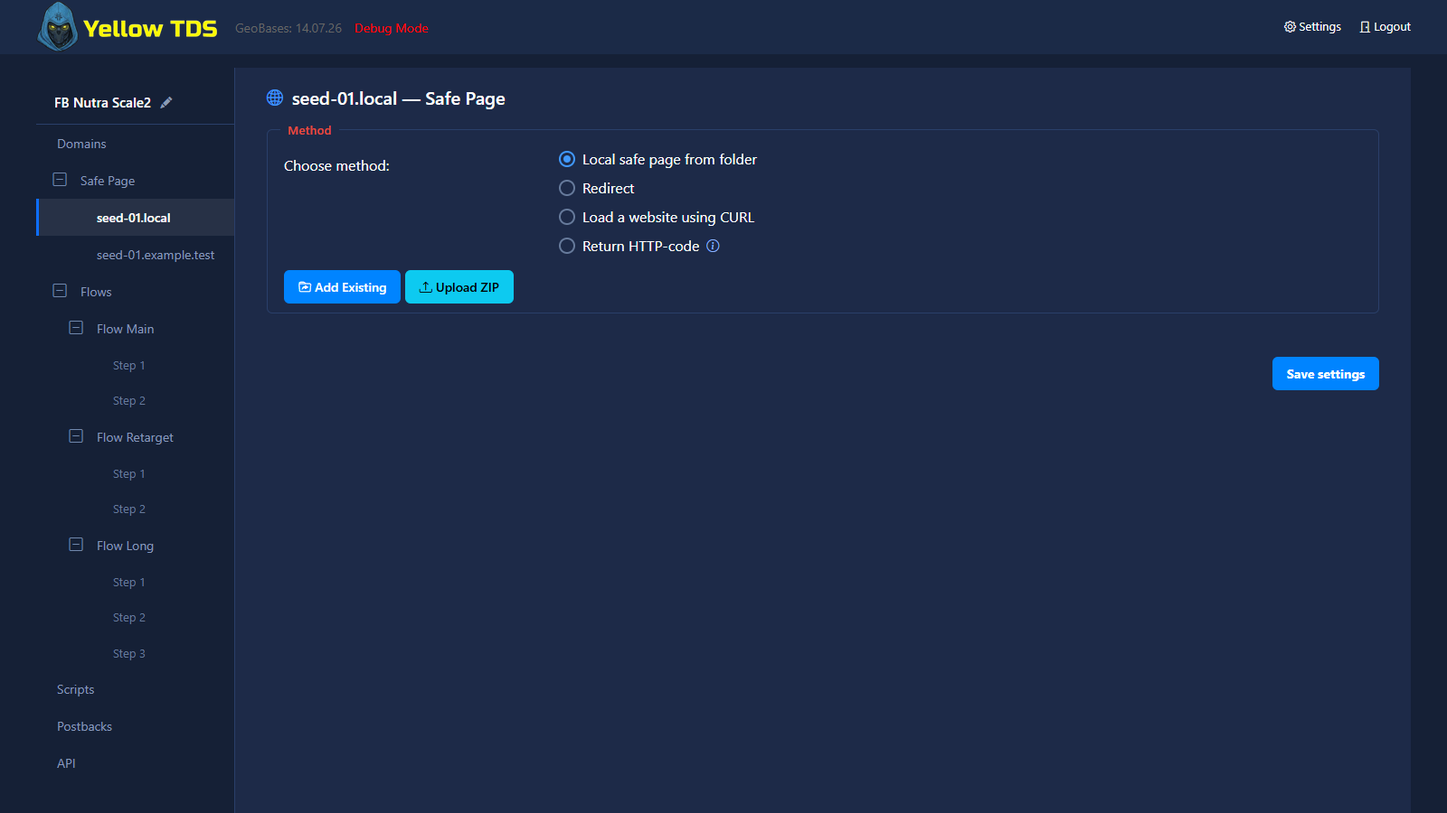
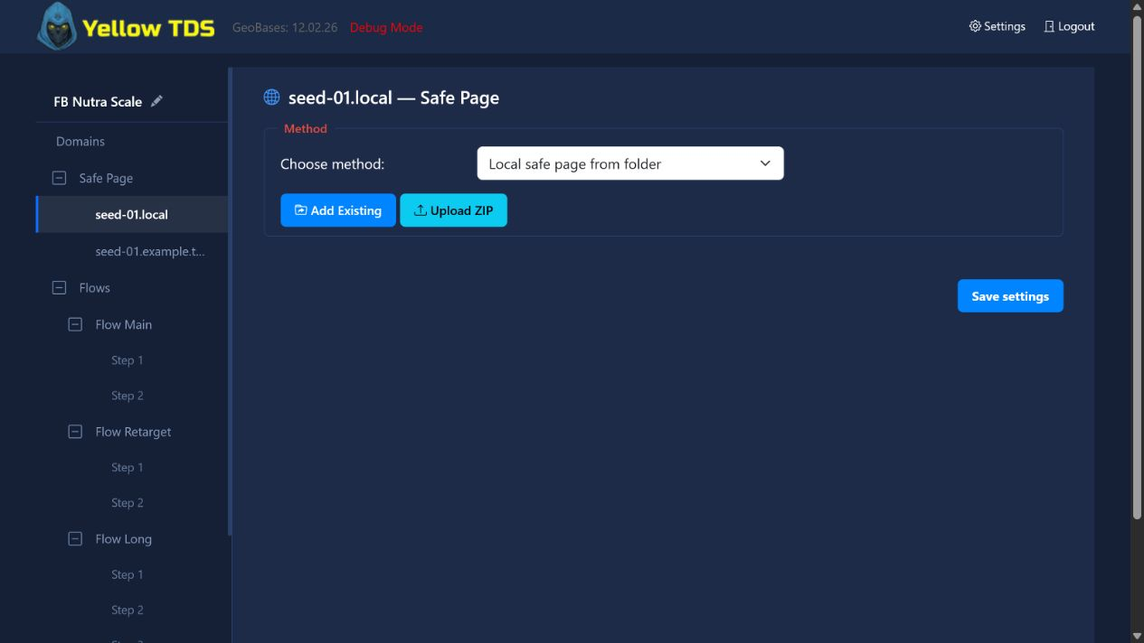
Update Safe Page method controls

diff --git a/admin/js/campsettings/domain-specific.js b/admin/js/campsettings/domain-specific.js
@@ -9,13 +9,13 @@ document.querySelectorAll('.white-scope-radio').forEach(function (radio) {
     });
 });
 
-// ── Domain-specific: method radio toggle ──
+// ── Domain-specific: method dropdown toggle ──
 document.addEventListener('change', function (e) {
-    var radio = e.target.closest('.dws-action');
-    if (!radio) return;
-    var section = radio.closest('.dws-section');
+    var actionSelect = e.target.closest('.dws-action');
+    if (!actionSelect) return;
+    var section = actionSelect.closest('.dws-section');
     if (!section) return;
-    var action = radio.value;
+    var action = actionSelect.value;
     section.querySelector('.dws-folder-block').style.display = action === 'folder' ? 'block' : 'none';
     section.querySelector('.dws-redirect-block').style.display = action === 'redirect' ? 'block' : 'none';
     section.querySelector('.dws-curl-block').style.display = action === 'curl' ? 'block' : 'none';
@@ -52,7 +52,7 @@ document.addEventListener('click', function (e) {
         fetch('listfolders.php?type=white').then(function (r) { return r.json(); }).then(function (data) {
             btn.disabled = false;
             if (data.error) { alert(data.result); return; }
-            if (!data.folders.length) { alert('No white page folders found. Upload a ZIP first.'); return; }
+            if (!data.folders.length) { alert('No safe page folders found. Upload a ZIP first.'); return; }
             if (window.openFolderPicker) {
                 window.openFolderPicker(data.folders).then(function (choices) {
                     if (!choices || !choices.length) return;
@@ -73,7 +73,7 @@ document.addEventListener('click', function (e) {
         document.body.appendChild(fileInput);
         fileInput.addEventListener('change', function () {
             if (!fileInput.files.length) { fileInput.remove(); return; }
-            var folderName = prompt('Enter folder name for this white page:', fileInput.files[0].name.replace(/\.zip$/i, ''));
+            var folderName = prompt('Enter folder name for this safe page:', fileInput.files[0].name.replace(/\.zip$/i, ''));
             if (!folderName || !folderName.trim()) { fileInput.remove(); return; }
             var fd = new FormData();
             fd.append('zipfile', fileInput.files[0]);
@@ -135,7 +135,7 @@ document.addEventListener('click', function (e) {
         var section = btn.closest('.dws-section');
         section.querySelector('.dws-error-items').insertAdjacentHTML('beforeend',
             '<div class="form-group-inner dws-error-item"><div class="row">' +
-            '<div class="col-lg-3"><label class="login2 pull-left pull-left-pro">HTTP code:</label></div>' +
+            '<div class="col-lg-3"><label class="login2 pull-left pull-left-pro">HTTP code: <i class="bi bi-info-circle admin-info-icon setting-help-icon" tabindex="0" role="img" aria-label="Examples: 404 Not Found or 200 OK." data-tooltip="Examples: 404 Not Found or 200 OK."></i></label></div>' +
             '<div class="col-lg-3"><input type="text" class="form-control dws-error-code" value="' + escapeHtml(code.trim()) + '" placeholder="404" /></div>' +
             '<div class="col-lg-1"><a href="javascript:void(0)" class="btn btn-danger campaign-icon-btn dws-remove-error" title="Delete"><i class="bi bi-trash"></i></a></div>' +
             '</div></div>');
@@ -171,8 +171,8 @@ window.collectDomainSpecificData = function () {
     var result = [];
     document.querySelectorAll('section.dws-section').forEach(function (section) {
         var domain = section.dataset.domain;
-        var action = 'folder';
-        section.querySelectorAll('.dws-action').forEach(function (r) { if (r.checked) action = r.value; });
+        var actionSelect = section.querySelector('.dws-action');
+        var action = actionSelect ? actionSelect.value : 'folder';
 
         var folders = [];
         var loadmode = {};

diff --git a/admin/js/campsettings/white-pages.js b/admin/js/campsettings/white-pages.js
@@ -1,11 +1,32 @@
 // ── White folder management ──
+var whiteActionSelect = document.querySelector('.white-action-select');
+
+function updateWhiteActionBlocks(action) {
+    var blocks = {
+        folder: document.getElementById('b_2'),
+        redirect: document.getElementById('b_3'),
+        curl: document.getElementById('b_4'),
+        error: document.getElementById('b_5')
+    };
+    Object.keys(blocks).forEach(function (key) {
+        if (blocks[key]) blocks[key].style.display = key === action ? 'block' : 'none';
+    });
+}
+
+if (whiteActionSelect) {
+    whiteActionSelect.addEventListener('change', function () {
+        updateWhiteActionBlocks(this.value);
+    });
+    updateWhiteActionBlocks(whiteActionSelect.value);
+}
+
 function buildWhiteFolderRow(folderName, mode) {
     mode = mode || 'base';
     var info = window.LOAD_MODE_INFO || {};
     var icon = (info[mode] || {}).icon || 'bi-house-door';
     return '<div class="form-group-inner white-folder-item"><div class="row">' +
         '<div class="col-lg-3"><label class="login2 pull-left pull-left-pro">Safe page folder:</label></div>' +
-        '<div class="col-lg-3"><input type="text" class="form-control folder-value-input white-folder-name" value="' + folderName + '" placeholder="white1" readonly tabindex="-1" /></div>' +
+        '<div class="col-lg-3"><input type="text" class="form-control folder-value-input white-folder-name" value="' + folderName + '" placeholder="safe1" readonly tabindex="-1" /></div>' +
         '<div class="col-lg-4"><div class="btn-group campaign-icon-group">' +
         '<a href="javascript:void(0)" class="btn btn-outline-secondary load-mode-btn" data-mode="' + mode + '" data-modes="base,rewrite,direct" title="Loading mode"><i class="bi ' + icon + '"></i></a>' +
         '<a href="javascript:void(0)" class="btn btn-warning white-edit-folder" title="Edit files"><i class="bi bi-pencil-square"></i></a>' +
@@ -38,7 +59,7 @@ document.querySelector('.white-add-existing')?.addEventListener('click', functio
     fetch('listfolders.php?type=white').then(function (r) { return r.json(); }).then(function (data) {
         btn.disabled = false;
         if (data.error) { alert(data.result); return; }
-        if (!data.folders.length) { alert('No white page folders found. Upload a ZIP first.'); return; }
+        if (!data.folders.length) { alert('No safe page folders found. Upload a ZIP first.'); return; }
         if (window.openFolderPicker) {
             window.openFolderPicker(data.folders).then(function (choices) {
                 if (!choices || !choices.length) return;
@@ -62,7 +83,7 @@ document.querySelector('.white-upload-zip')?.addEventListener('click', function 
     fileInput.addEventListener('change', function () {
         if (!fileInput.files.length) { fileInput.remove(); return; }
         var file = fileInput.files[0];
-        var folderName = prompt('Enter folder name for the new white page:');
+        var folderName = prompt('Enter folder name for the new safe page:');
         if (!folderName || !folderName.trim()) { fileInput.remove(); return; }
         folderName = folderName.trim();
         if (!/^[a-zA-Z0-9_\-\.]+$/.test(folderName)) {

diff --git a/admin/js/campsettings/dws-sync.js b/admin/js/campsettings/dws-sync.js
@@ -72,13 +72,14 @@ function buildDwsSection(domain) {
         '<h5 class="dws-page-title"><i class="bi bi-globe2" aria-hidden="true"></i>' + safeDomain + ' — Safe Page</h5>' +
         '<div class="flow-group dws-method-group"><span class="flow-group-title">Method</span>' +
         '<div class="form-group-inner"><div class="row">' +
-        '<div class="col-lg-3 col-md-6 col-sm-6 col-xs-12"><label class="login2 pull-left pull-left-pro">Choose method:</label></div>' +
-        '<div class="col-lg-9 col-md-6 col-sm-6 col-xs-12"><div class="ywb-radios">' +
-        '<label class="ywb-radio-label"><input type="radio" checked value="folder" name="' + actName + '" class="dws-action" /> Local safe page from folder</label>' +
-        '<label class="ywb-radio-label"><input type="radio" value="redirect" name="' + actName + '" class="dws-action" /> Redirect</label>' +
-        '<label class="ywb-radio-label"><input type="radio" value="curl" name="' + actName + '" class="dws-action" /> Load a website using CURL</label>' +
-        '<label class="ywb-radio-label"><input type="radio" value="error" name="' + actName + '" class="dws-action" /> Return HTTP-code <i class="bi bi-info-circle admin-info-icon setting-help-icon" tabindex="0" role="img" aria-label="Examples: 404 Not Found or 200 OK." data-tooltip="Examples: 404 Not Found or 200 OK."></i></label>' +
-        '</div></div></div></div>' +
+        '<div class="col-lg-3 col-md-6 col-sm-6 col-xs-12"><label for="' + actName + '" class="login2 pull-left pull-left-pro">Choose method:</label></div>' +
+        '<div class="col-lg-5 col-md-6 col-sm-6 col-xs-12">' +
+        '<select id="' + actName + '" name="' + actName + '" class="form-select dws-action">' +
+        '<option value="folder" selected>Local safe page from folder</option>' +
+        '<option value="redirect">Redirect</option>' +
+        '<option value="curl">Load a website using CURL</option>' +
+        '<option value="error">Return HTTP-code</option>' +
+        '</select></div></div></div>' +
         '<div class="dws-folder-block"><div class="dws-folder-items"></div>' +
         '<a href="javascript:void(0)" class="btn btn-primary campaign-action-btn dws-add-existing"><i class="bi bi-folder-symlink"></i> Add Existing</a> ' +
         '<a href="javascript:void(0)" class="btn btn-info campaign-action-btn dws-upload-zip"><i class="bi bi-upload"></i> Upload ZIP</a></div>' +

diff --git a/admin/campsettings.php b/admin/campsettings.php
@@ -95,11 +95,11 @@ global $c, $db, $campId;
             <span class="flow-group-title">Scope</span>
             <div class="form-group-inner">
                 <div class="row">
-                    <div class="col-lg-3"><label class="login2 pull-left pull-left-pro">White page mode:</label></div>
+                    <div class="col-lg-3"><label class="login2 pull-left pull-left-pro">Safe page mode:</label></div>
                     <div class="col-lg-9">
                         <div class="ywb-radios">
-                            <label class="ywb-radio-label"><input type="radio" <?= !$c->white->domainFilterEnabled ? 'checked' : '' ?> value="false" name="white.domainfilter.use" class="white-scope-radio" /> Global <i class="bi bi-info-circle admin-info-icon setting-help-icon" tabindex="0" role="img" aria-label="Uses the same white page configuration for every campaign domain." data-tooltip="Uses the same white page configuration for every campaign domain."></i></label>
-                            <label class="ywb-radio-label"><input type="radio" <?= $c->white->domainFilterEnabled ? 'checked' : '' ?> value="true" name="white.domainfilter.use" class="white-scope-radio" /> Domain-Specific <i class="bi bi-info-circle admin-info-icon setting-help-icon" tabindex="0" role="img" aria-label="Creates an independent white page configuration for each campaign domain." data-tooltip="Creates an independent white page configuration for each campaign domain."></i></label>
+                            <label class="ywb-radio-label"><input type="radio" <?= !$c->white->domainFilterEnabled ? 'checked' : '' ?> value="false" name="white.domainfilter.use" class="white-scope-radio" /> Global <i class="bi bi-info-circle admin-info-icon setting-help-icon" tabindex="0" role="img" aria-label="Uses the same safe page configuration for every campaign domain." data-tooltip="Uses the same safe page configuration for every campaign domain."></i></label>
+                            <label class="ywb-radio-label"><input type="radio" <?= $c->white->domainFilterEnabled ? 'checked' : '' ?> value="true" name="white.domainfilter.use" class="white-scope-radio" /> Domain-Specific <i class="bi bi-info-circle admin-info-icon setting-help-icon" tabindex="0" role="img" aria-label="Creates an independent safe page configuration for each campaign domain." data-tooltip="Creates an independent safe page configuration for each campaign domain."></i></label>
                         </div>
                     </div>
                 </div>
@@ -112,16 +112,16 @@ global $c, $db, $campId;
             <div class="form-group-inner">
                 <div class="row">
                     <div class="col-lg-3 col-md-6 col-sm-6 col-xs-12">
-                        <label class="login2 pull-left pull-left-pro">Choose
+                        <label for="white-action-select" class="login2 pull-left pull-left-pro">Choose
                             method:</label>
                     </div>
-                    <div class="col-lg-9 col-md-6 col-sm-6 col-xs-12">
-                        <div class="ywb-radios">
-                            <label class="ywb-radio-label"><input type="radio" <?= $c->white->action === 'folder' ? 'checked' : '' ?> value="folder" name="white.action" onclick="(document.getElementById('b_2').style.display = 'block'); (document.getElementById('b_3').style.display = 'none'); (document.getElementById('b_4').style.display = 'none'); (document.getElementById('b_5').style.display = 'none')" /> Local safe page from folder</label>
-                            <label class="ywb-radio-label"><input type="radio" <?= $c->white->action === 'redirect' ? 'checked' : '' ?> value="redirect" name="white.action" onclick="(document.getElementById('b_2').style.display = 'none'); (document.getElementById('b_3').style.display = 'block'); (document.getElementById('b_4').style.display = 'none'); (document.getElementById('b_5').style.display = 'none')" /> Redirect</label>
-                            <label class="ywb-radio-label"><input type="radio" <?= $c->white->action === 'curl' ? 'checked' : '' ?> value="curl" name="white.action" onclick="(document.getElementById('b_2').style.display = 'none'); (document.getElementById('b_3').style.display = 'none'); (document.getElementById('b_4').style.display = 'block'); (document.getElementById('b_5').style.display = 'none')" /> Load a website using CURL</label>
-                            <label class="ywb-radio-label"><input type="radio" <?= $c->white->action === 'error' ? 'checked' : '' ?> value="error" name="white.action" onclick="(document.getElementById('b_2').style.display = 'none'); (document.getElementById('b_3').style.display = 'none'); (document.getElementById('b_4').style.display = 'none'); (document.getElementById('b_5').style.display = 'block')" /> Return HTTP-code <i class="bi bi-info-circle admin-info-icon setting-help-icon" tabindex="0" role="img" aria-label="Examples: 404 Not Found or 200 OK." data-tooltip="Examples: 404 Not Found or 200 OK."></i></label>
-                        </div>
+                    <div class="col-lg-5 col-md-6 col-sm-6 col-xs-12">
+                        <select id="white-action-select" class="form-select white-action-select" name="white.action">
+                            <option value="folder" <?= $c->white->action === 'folder' ? 'selected' : '' ?>>Local safe page from folder</option>
+                            <option value="redirect" <?= $c->white->action === 'redirect' ? 'selected' : '' ?>>Redirect</option>
+                            <option value="curl" <?= $c->white->action === 'curl' ? 'selected' : '' ?>>Load a website using CURL</option>
+                            <option value="error" <?= $c->white->action === 'error' ? 'selected' : '' ?>>Return HTTP-code</option>
+                        </select>
                     </div>
                 </div>
             </div>
@@ -133,7 +133,7 @@ global $c, $db, $campId;
                     <div class="form-group-inner white-folder-item">
                         <div class="row">
                             <div class="col-lg-3"><label class="login2 pull-left pull-left-pro">Safe page folder:</label></div>
-                            <div class="col-lg-3"><input type="text" class="form-control folder-value-input white-folder-name" value="<?= htmlspecialchars($fn) ?>" placeholder="white1" readonly tabindex="-1" /></div>
+                            <div class="col-lg-3"><input type="text" class="form-control folder-value-input white-folder-name" value="<?= htmlspecialchars($fn) ?>" placeholder="safe1" readonly tabindex="-1" /></div>
                             <div class="col-lg-4"><div class="btn-group campaign-icon-group"><a href="javascript:void(0)" class="btn btn-outline-secondary load-mode-btn" data-mode="<?= htmlspecialchars($c->white->getLoadMode($fn)) ?>" data-modes="base,rewrite,direct" title="Loading mode"><i class="bi <?= match($c->white->getLoadMode($fn)) { 'rewrite' => 'bi-arrow-repeat', 'direct' => 'bi-hdd-network', default => 'bi-house-door' } ?>"></i></a><a href="javascript:void(0)" class="btn btn-warning white-edit-folder" title="Edit files"><i class="bi bi-pencil-square"></i></a><a href="javascript:void(0)" class="btn btn-danger remove-white-folder-item" title="Delete"><i class="bi bi-trash"></i></a></div></div>
                         </div>
                     </div>
@@ -206,7 +206,7 @@ global $c, $db, $campId;
                     <div class="form-group-inner errorcode-item">
                         <div class="row">
                             <div class="col-lg-3 col-md-12 col-sm-12 col-xs-12">
-                                <label class="login2 pull-left pull-left-pro">HTTP code:</label>
+                                <label class="login2 pull-left pull-left-pro">HTTP code: <i class="bi bi-info-circle admin-info-icon setting-help-icon" tabindex="0" role="img" aria-label="Examples: 404 Not Found or 200 OK." data-tooltip="Examples: 404 Not Found or 200 OK."></i></label>
                             </div>
                             <div class="col-lg-3 col-md-3 col-sm-3 col-xs-3">
                                 <div class="input-group">
@@ -246,15 +246,15 @@ global $c, $db, $campId;
             <div class="form-group-inner">
                 <div class="row">
                     <div class="col-lg-3 col-md-6 col-sm-6 col-xs-12">
-                        <label class="login2 pull-left pull-left-pro">Choose method:</label>
+                        <label for="dws-action-<?= $di ?>" class="login2 pull-left pull-left-pro">Choose method:</label>
                     </div>
-                    <div class="col-lg-9 col-md-6 col-sm-6 col-xs-12">
-                        <div class="ywb-radios">
-                            <label class="ywb-radio-label"><input type="radio" <?= $dwAction === 'folder' ? 'checked' : '' ?> value="folder" name="dws_action_<?= $di ?>" class="dws-action" data-di="<?= $di ?>" /> Local safe page from folder</label>
-                            <label class="ywb-radio-label"><input type="radio" <?= $dwAction === 'redirect' ? 'checked' : '' ?> value="redirect" name="dws_action_<?= $di ?>" class="dws-action" data-di="<?= $di ?>" /> Redirect</label>
-                            <label class="ywb-radio-label"><input type="radio" <?= $dwAction === 'curl' ? 'checked' : '' ?> value="curl" name="dws_action_<?= $di ?>" class="dws-action" data-di="<?= $di ?>" /> Load a website using CURL</label>
-                            <label class="ywb-radio-label"><input type="radio" <?= $dwAction === 'error' ? 'checked' : '' ?> value="error" name="dws_action_<?= $di ?>" class="dws-action" data-di="<?= $di ?>" /> Return HTTP-code <i class="bi bi-info-circle admin-info-icon setting-help-icon" tabindex="0" role="img" aria-label="Examples: 404 Not Found or 200 OK." data-tooltip="Examples: 404 Not Found or 200 OK."></i></label>
-                        </div>
+                    <div class="col-lg-5 col-md-6 col-sm-6 col-xs-12">
+                        <select id="dws-action-<?= $di ?>" name="dws_action_<?= $di ?>" class="form-select dws-action" data-di="<?= $di ?>">
+                            <option value="folder" <?= $dwAction === 'folder' ? 'selected' : '' ?>>Local safe page from folder</option>
+                            <option value="redirect" <?= $dwAction === 'redirect' ? 'selected' : '' ?>>Redirect</option>
+                            <option value="curl" <?= $dwAction === 'curl' ? 'selected' : '' ?>>Load a website using CURL</option>
+                            <option value="error" <?= $dwAction === 'error' ? 'selected' : '' ?>>Return HTTP-code</option>
+                        </select>
                     </div>
                 </div>
             </div>
@@ -327,7 +327,7 @@ global $c, $db, $campId;
                 <?php if ($dws) foreach ($dws->errorCodes as $ec) { ?>
                     <div class="form-group-inner dws-error-item">
                         <div class="row">
-                            <div class="col-lg-3"><label class="login2 pull-left pull-left-pro">HTTP code:</label></div>
+                            <div class="col-lg-3"><label class="login2 pull-left pull-left-pro">HTTP code: <i class="bi bi-info-circle admin-info-icon setting-help-icon" tabindex="0" role="img" aria-label="Examples: 404 Not Found or 200 OK." data-tooltip="Examples: 404 Not Found or 200 OK."></i></label></div>
                             <div class="col-lg-3"><input type="text" class="form-control dws-error-code" value="<?= htmlspecialchars($ec) ?>" placeholder="404" /></div>
                             <div class="col-lg-1"><a href="javascript:void(0)" class="btn btn-danger campaign-icon-btn dws-remove-error" title="Delete"><i class="bi bi-trash"></i></a></div>
                         </div>

diff --git a/admin/settingsmodal.php b/admin/settingsmodal.php
@@ -59,8 +59,8 @@
                         <label class="settings-field"><span>Backup folder</span><input type="text" name="backupDir"><small>Update and restore snapshots are stored here. Only the newest five are kept.</small></label>
                         <label class="settings-field"><span>Cache root</span><input type="text" name="cachingDir"></label>
                         <label class="settings-field"><span>Landings</span><input type="text" name="landingFolder"></label>
-                        <label class="settings-field"><span>White pages</span><input type="text" name="whiteFolder"></label>
-                        <label class="settings-field"><span>White CURL cache</span><input type="text" name="whiteCurlCache"></label>
+                        <label class="settings-field"><span>Safe pages</span><input type="text" name="whiteFolder"></label>
+                        <label class="settings-field"><span>Safe Page CURL cache</span><input type="text" name="whiteCurlCache"></label>
                         <label class="settings-field"><span>Device cache</span><input type="text" name="devicesCache"></label>
                         <label class="settings-field"><span>Currency cache</span><input type="text" name="currencyCache"></label>
                         <label class="settings-field"><span>VPN cache</span><input type="text" name="proxyVpnCache"></label>

diff --git a/htmlprocessing.php b/htmlprocessing.php
@@ -284,7 +284,7 @@ function add_images_lazy_load($html)
     return $html;
 }
 
-//load white page from FOLDER
+//load safe page from FOLDER
 function load_white_content($url, string $mode = 'base'): string
 {
     $path = get_cache_path('whiteFolder') . '/' . $url;
@@ -313,7 +313,7 @@ function load_white_content($url, string $mode = 'base'): string
     return $html;
 }
 
-//sanitize white page HTML: remove trackers, og:url, canonical, noscript; add noindex/nofollow
+//sanitize safe page HTML: remove trackers, og:url, canonical, noscript; add noindex/nofollow
 function sanitize_white_html(string $html): string
 {
     //remove everything unneeded
@@ -348,7 +348,7 @@ function sanitize_white_html(string $html): string
     return $html;
 }
 
-//loading white page with CURL
+//loading safe page with CURL
 function load_white_curl(string $url, string $mode = 'rewrite'): string
 {
     $res = get($url);

diff --git a/admin/index.php b/admin/index.php
@@ -53,7 +53,7 @@ $dataset = $db->get_campaigns(
                     <span class="system-status-value" id="statusDatabaseValue">…</span>
                 </span>
                 <span class="system-status-separator" aria-hidden="true"></span>
-                <span class="system-status-item" id="statusCache" title="All files in the configured cache directory, including landing and white pages">
+                <span class="system-status-item" id="statusCache" title="All files in the configured cache directory, including landing and safe pages">
                     <i class="bi bi-folder2-open" aria-hidden="true"></i>
                     <span class="system-status-label">Cache:</span>
                     <span class="system-status-value" id="statusCacheValue">…</span>

diff --git a/docs/ru/white-settings.md b/docs/ru/white-settings.md
@@ -1,8 +1,8 @@
-# White settings
+# Настройки Safe Page
 
 ## Назначение
 
-White settings определяют, что делать с трафиком, который не должен попадать в black funnel.
+Настройки Safe Page определяют, что делать с трафиком, который не должен попадать в offer funnel.
 
 Краткие пояснения к фильтрам, режимам Global/Domain-Specific и HTTP-кодам доступны по значкам `i`: наведите курсор или переведите на значок фокус с клавиатуры.
 
@@ -13,18 +13,18 @@ White settings определяют, что делать с трафиком, к
 - load a website using CURL
 - return HTTP code
 
-![Раздел white settings](../assets/screenshots/white-settings-overview.png)
+![Раздел настроек Safe Page](../assets/screenshots/white-settings-overview.png)
 
 ## Global vs domain-specific
 
 Можно выбрать:
 
-- одну общую white-конфигурацию
-- отдельную white-конфигурацию для каждого домена
+- одну общую конфигурацию Safe Page
+- отдельную конфигурацию Safe Page для каждого домена
 
 При переключении на **Domain-Specific** домены сразу появляются в боковом меню редактора — сохранять настройки или перезагружать страницу для этого не нужно. Добавление и удаление доменов также немедленно обновляет эти пункты меню.
 
-Страница каждого домена использует тот же блок **Method**, что и глобальная настройка: одинаковые названия действий, подсказки, поля и кнопки управления.
+Dropdown **Method** содержит одинаковые четыре действия и в глобальной настройке, и на странице Safe Page каждого домена. При выборе действия сразу показываются только относящиеся к нему поля.
 
 ![Дерево domain-specific safe pages](../assets/screenshots/white-settings-domain-specific.png)
 

diff --git a/docs/ru/admin-panel.md b/docs/ru/admin-panel.md
@@ -21,7 +21,7 @@
 
 ![Dashboard со списком кампаний](../assets/screenshots/admin-dashboard-campaigns.png)
 
-Размер **DB** учитывает основной файл SQLite и его служебные WAL/SHM-файлы. **Cache** показывает весь настроенный каталог кэша, включая загруженные лендинги и white pages. Значения пересчитываются не чаще одного раза в минуту, чтобы большие каталоги не замедляли открытие Dashboard. При остатке диска менее 15% индикатор становится жёлтым, менее 5% — красным.
+Размер **DB** учитывает основной файл SQLite и его служебные WAL/SHM-файлы. **Cache** показывает весь настроенный каталог кэша, включая загруженные лендинги и safe pages. Значения пересчитываются не чаще одного раза в минуту, чтобы большие каталоги не замедляли открытие Dashboard. При остатке диска менее 15% индикатор становится жёлтым, менее 5% — красным.
 
 Кнопка **Settings** открывает [системные настройки](system-settings.md), управление плагинами и обновлениями. Дата GeoBases в header носит информационный характер.
 
@@ -38,7 +38,7 @@
 
 Через админку можно:
 
-- выбирать white folders и landing folders
+- выбирать папки safe pages и лендингов
 - редактировать файлы
 - загружать ZIP
 

diff --git a/docs/en/admin-panel.md b/docs/en/admin-panel.md
@@ -19,12 +19,12 @@
 
 ![Campaign dashboard](../assets/screenshots/admin-dashboard-campaigns.png)
 
-The **DB** size includes the main SQLite file and its WAL/SHM sidecar files. **Cache** covers the complete configured cache directory, including uploaded landing and white pages. Values are recalculated at most once per minute so large directories do not slow down the Dashboard. Free disk space is highlighted in yellow below 15% and red below 5%.
+The **DB** size includes the main SQLite file and its WAL/SHM sidecar files. **Cache** covers the complete configured cache directory, including uploaded landing and safe pages. Values are recalculated at most once per minute so large directories do not slow down the Dashboard. Free disk space is highlighted in yellow below 15% and red below 5%.
 
 The **Settings** button opens [system settings](system-settings.md), plugin controls, and update actions. The GeoBases date in the header is informational.
 
 ## File Management
 
-The **Add Existing** action opens a searchable checkbox list, so several white-page or landing folders can be added at once. Selections persist while filtering. In long lists only the folder area scrolls, while search and the **Cancel** / **Add selected** buttons remain available.
+The **Add Existing** action opens a searchable checkbox list, so several safe-page or landing folders can be added at once. Selections persist while filtering. In long lists only the folder area scrolls, while search and the **Cancel** / **Add selected** buttons remain available.
 
 Selected folder names are displayed as fixed identifiers and do not receive mouse or Tab focus. Redirect, CURL, and HTTP-code fields remain editable.

diff --git a/docs/en/white-settings.md b/docs/en/white-settings.md
@@ -1,8 +1,8 @@
-# White Settings
+# Safe Page Settings
 
 ## Purpose
 
-White settings define what to do with traffic that should not enter the black funnel.
+Safe Page settings define what to do with traffic that should not enter the offer funnel.
 
 Short explanations for filters, Global/Domain-Specific scope, and HTTP codes are available from the `i` icons. Hover an icon or focus it with the keyboard to show its hint.
 
@@ -13,14 +13,14 @@ Short explanations for filters, Global/Domain-Specific scope, and HTTP codes are
 - load a website using CURL
 - return HTTP code
 
-![White settings section](../assets/screenshots/white-settings-overview.png)
+![Safe Page settings section](../assets/screenshots/white-settings-overview.png)
 
 ## Global vs domain-specific
 
-You can use one shared white configuration or an independent configuration for each campaign domain.
+You can use one shared safe-page configuration or an independent configuration for each campaign domain.
 
 When you switch to **Domain-Specific**, the domain links appear in the editor sidebar immediately. Saving or reloading the page is not required, and adding or removing a domain updates those links right away.
 
-Each domain page uses the same **Method** panel as the global configuration, with matching action names, hints, fields, and controls.
+The **Method** dropdown contains the same four actions in both the global configuration and every domain-specific Safe Page. Selecting an action immediately shows only its related fields.
 
 ![Domain-specific safe page tree](../assets/screenshots/white-settings-domain-specific.png)

diff --git a/docs/ru/campaign-settings.md b/docs/ru/campaign-settings.md
@@ -5,7 +5,7 @@
 На странице настроек кампании есть следующие крупные блоки:
 
 - Domains
-- White
+- Safe Page
 - Flows
 - Integration
 - Scripts
@@ -23,7 +23,7 @@
 
 ![Общий экран настроек кампании](../assets/screenshots/campaign-settings-overview.png)
 
-## White
+## Safe Page
 
 Этот блок определяет, что отдать нежелательному трафику:
 
@@ -32,7 +32,7 @@
 - curl
 - error
 
-Также здесь могут быть domain-specific white settings. Кнопка `−/+` возле пункта **Safe Page** в боковом меню сворачивает или разворачивает список доменов. Она появляется сразу после переключения в режим Domain-Specific; переход к странице конкретного домена автоматически раскрывает ветку.
+Также здесь могут быть domain-specific настройки Safe Page. Кнопка `−/+` возле пункта **Safe Page** в боковом меню сворачивает или разворачивает список доменов. Она появляется сразу после переключения в режим Domain-Specific; переход к странице конкретного домена автоматически раскрывает ветку.
 
 ## Flows
 
